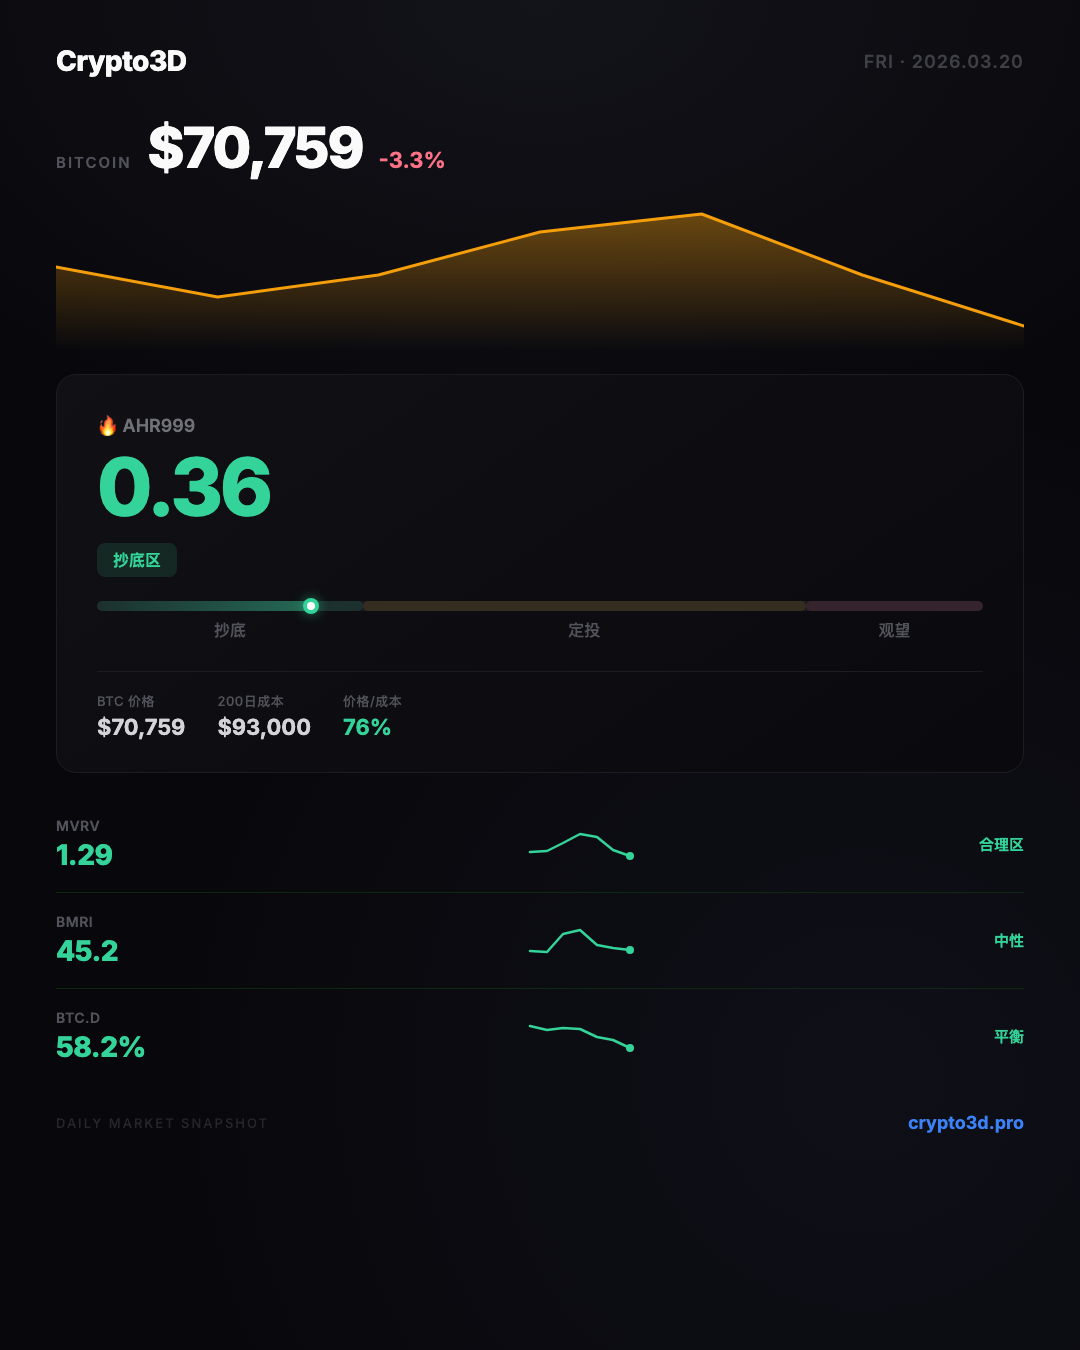
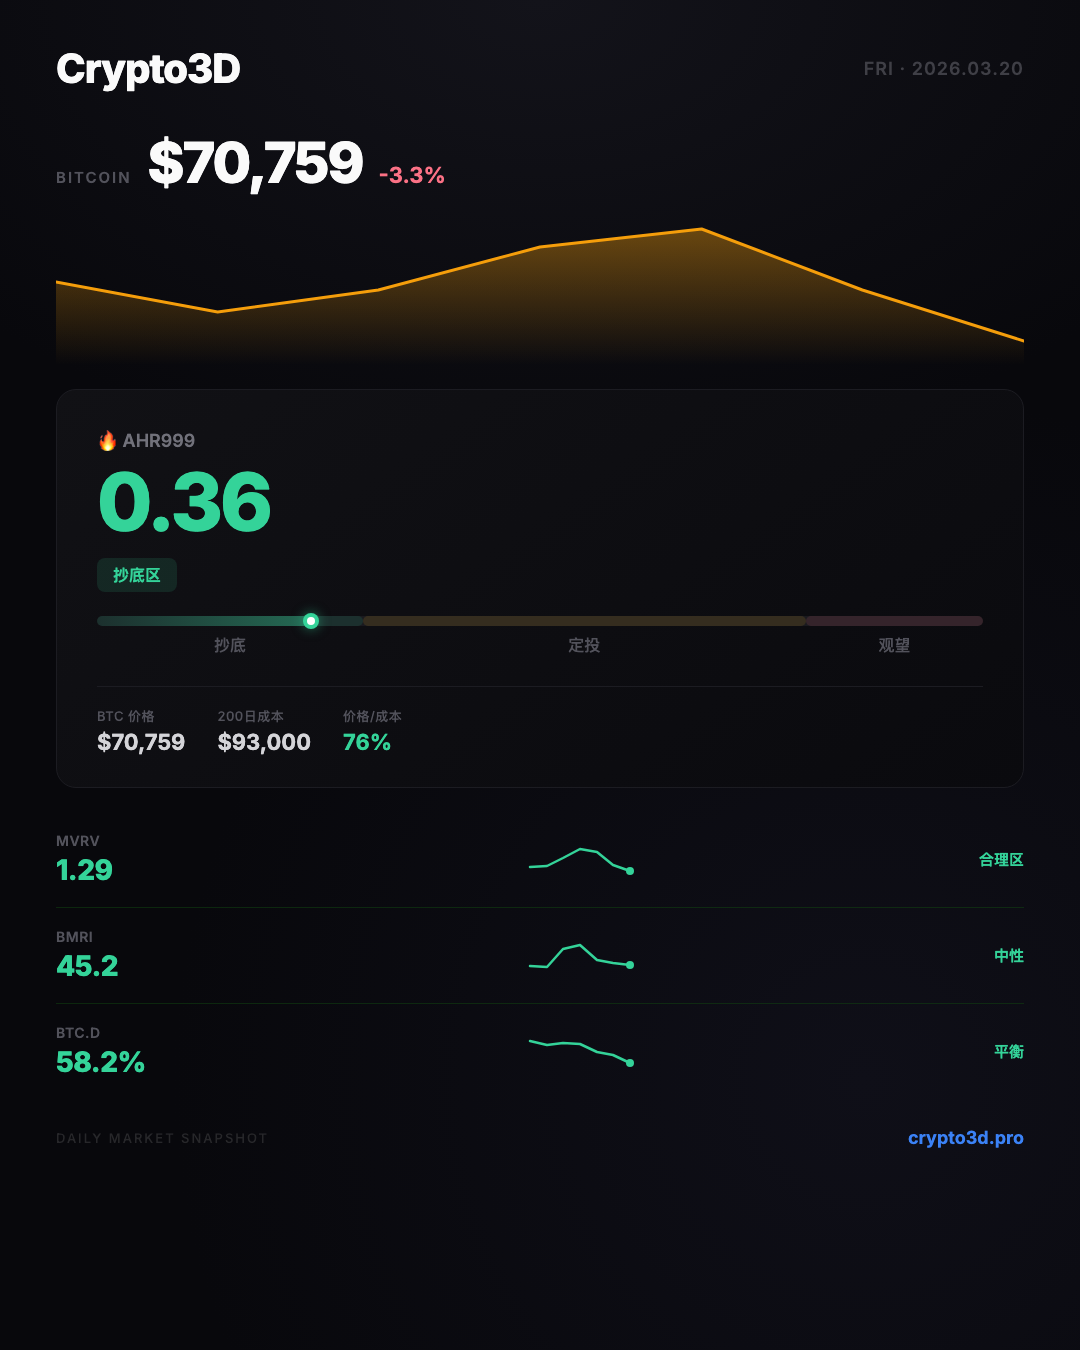
bigger Crypto3D title

diff --git a/poster/output/2026-03-20.html b/poster/output/2026-03-20.html
@@ -25,9 +25,9 @@ body {
   padding: 44px 56px 36px;
 }
 .h-brand {
-  font-size: 28px;
+  font-size: 40px;
   font-weight: 800;
-  letter-spacing: -0.5px;
+  letter-spacing: -1px;
   color: #fafafa;
 }
 .h-date {

diff --git a/poster/gen.py b/poster/gen.py
@@ -277,9 +277,9 @@ body {{
   padding: 44px 56px 36px;
 }}
 .h-brand {{
-  font-size: 28px;
+  font-size: 40px;
   font-weight: 800;
-  letter-spacing: -0.5px;
+  letter-spacing: -1px;
   color: #fafafa;
 }}
 .h-date {{
